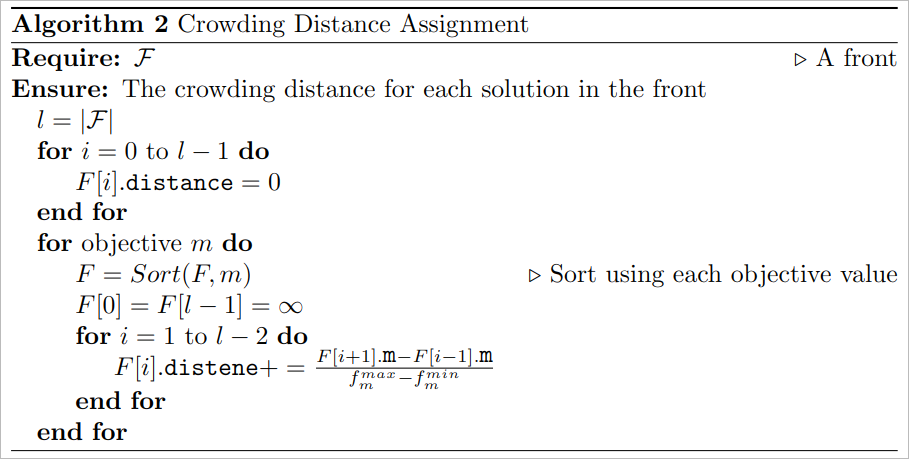
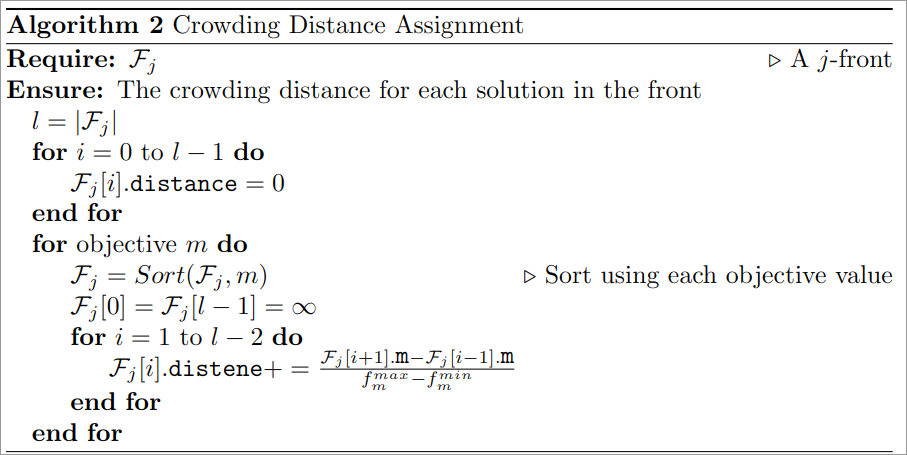
nsga2

Changed region(s): [[0.0, 0.0, 1.0, 1.0], [0.5557, 0.5538, 0.9879, 0.6462]]

diff --git a/_posts/2012-08-14-blog-post-1.md b/_posts/2012-08-14-blog-post-1.md
@@ -67,8 +67,7 @@ The crowding distance associated with the $$i$$ solution is the perimeter of the
 |:--:| 
 | Figure 4: *Crowding Distance* |
 
-the parameters $$f_{m}^{max}$$ and $$f_{m}^{min}$$ are the maximum and minimum values of the $$m$$th objective function. 
-
+Here we use Object-Oriented Programming (OOP) notation to indicate that the $$i$$th individual of the front $$\mathcal{F_{j}}$$ possesses the attributes $$\texttt{distance}$$ and $$\texttt{m}$$ (representing the value of the individual in the $$m$$th objective). The parameters $$f_{m}^{max}$$ and $$f_{m}^{min}$$ denote the maximum and minimum values of the $$m$$th objective function.
 NSGA-II
 -----
 With the two key factors mentioned previously, along with the usual binary tournament selection, recombination, and mutation operators, we can implement the NSGA-II algorithm.

diff --git a/_portfolio/portfolio-1.md b/_portfolio/portfolio-1.md
@@ -1,7 +1,7 @@
 ---
-title: "TripAdvisor-Restaurant-Data-Scraping-Notebook"
-excerpt: "This repository serves as a storage for a web scraping project aimed at gathering information from the TripAdvisor website regarding restaurants in Mexico City.<br/><img src='../images/trip.pn'>"
+title: "NSGA-II"
+excerpt: "This project is to implement the NSGA-II algorithm.<br/><img src='../images/trip.pn'>"
 collection: portfolio
 ---
 
-This is an item in your portfolio. It can be have images or nice text. If you name the file .md, it will be parsed as markdown. If you name the file .html, it will be parsed as HTML. 
+ 
